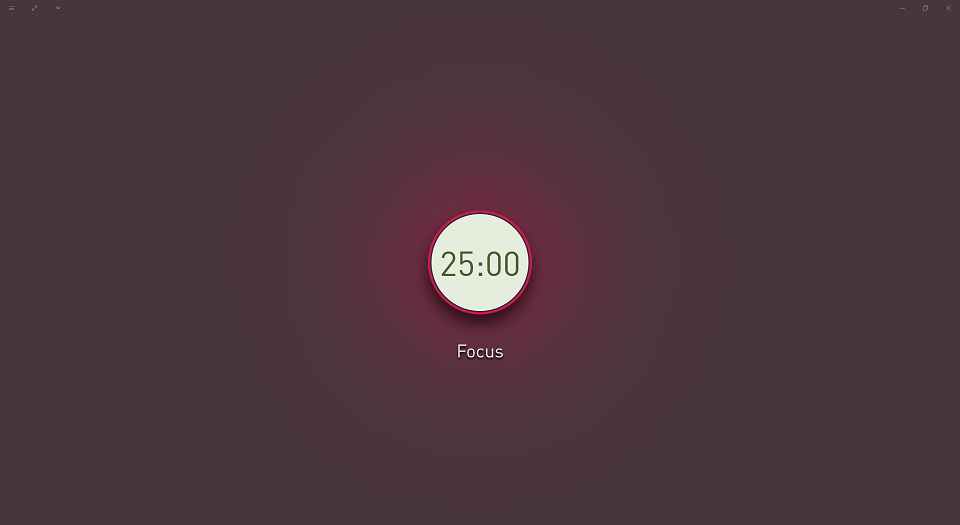
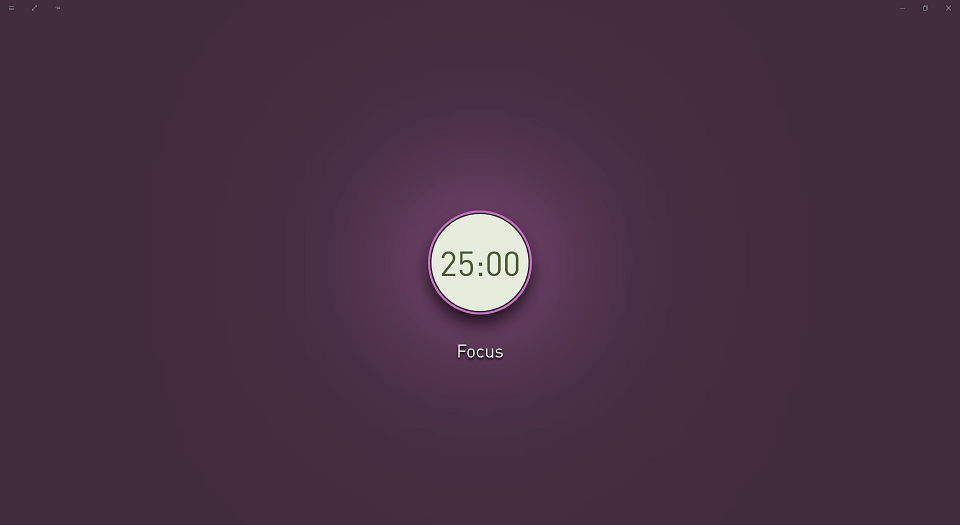
Change Audio Call Color

Changed region(s): [[0.4062, 0.3352, 0.5938, 0.6705]]

diff --git a/OnePomodoro/OnePomodoro/PomodoroViews/AudioCall.xaml b/OnePomodoro/OnePomodoro/PomodoroViews/AudioCall.xaml
@@ -17,7 +17,11 @@
                     d:DesignHeight="1200"
                     d:DesignWidth="1920">
     <UserControl.Resources>
-
+        <Color x:Key="RedBackground">#422D3E</Color>
+        <Color x:Key="RedForeground">#CC6AC4</Color>
+        
+        <Color x:Key="BlueBackground">#373644</Color>
+        <Color x:Key="BlueForeground">#9ea2ff</Color>
         <SolidColorBrush x:Name="Background"
                          Color="#35343b" />
         <converters:BoolToObjectConverter TrueValue="Top"
@@ -111,17 +115,17 @@
                                             Storyboard.TargetName="BrushBridge"
                                             Storyboard.TargetProperty="Color"
                                             Duration="0:0:1"
-                                            To="#FFD91153" />
+                                            To="{StaticResource RedForeground}" />
                             <ColorAnimation EnableDependentAnimation="True"
                                             Storyboard.TargetName="BackgroundFill"
                                             Storyboard.TargetProperty="(Shape.Fill).(SolidColorBrush.Color)"
                                             Duration="0:0:2"
-                                            To="#47363b" />
+                                            To="{StaticResource RedBackground}" />
                             <ColorAnimation EnableDependentAnimation="True"
                                             Storyboard.TargetName="LayoutRoot"
                                             Storyboard.TargetProperty="(Panel.Background).(SolidColorBrush.Color)"
                                             Duration="0:0:2"
-                                            To="#47363b" />
+                                            To="{StaticResource RedBackground}" />
                         </Storyboard>
                     </VisualTransition>
                     <VisualTransition To="InBreak">
@@ -166,21 +170,21 @@
                 <VisualState x:Name="InPomodoro">
                     <VisualState.Setters>
                         <Setter Target="BrushBridge.Color"
-                                Value="#FFD91153" />
+                                Value="{StaticResource RedForeground}" />
                         <Setter Target="BackgroundFill.Fill"
-                                Value="#47363b" />
+                                Value="{StaticResource RedBackground}" />
                         <Setter Target="LayoutRoot.Background"
-                                Value="#47363b" />
+                                Value="{StaticResource RedBackground}" />
                     </VisualState.Setters>
                 </VisualState>
                 <VisualState x:Name="InBreak">
                     <VisualState.Setters>
                         <Setter Target="BrushBridge.Color"
-                                Value="#9ea2ff" />
+                                Value="{StaticResource BlueForeground}" />
                         <Setter Target="BackgroundFill.Fill"
-                                Value="#373644" />
+                                Value="{StaticResource BlueBackground}" />
                         <Setter Target="LayoutRoot.Background"
-                                Value="#373644" />
+                                Value="{StaticResource BlueBackground}" />
                     </VisualState.Setters>
                 </VisualState>
             </VisualStateGroup>
@@ -198,12 +202,12 @@
             
         </VisualStateManager.VisualStateGroups>
         <helpers:SolidColorBrushBridge x:Name="BrushBridge"
-                                       Color="#FFD91153" />
+                                       Color="{StaticResource RedForeground}" />
         <Grid Grid.Row="1" 
               x:Name="LayoutRoot"
-              Background="#47363b">
+              Background="{StaticResource RedBackground}">
 
-            <Rectangle Fill="#47363b"
+            <Rectangle Fill="{StaticResource RedBackground}"
                        x:Name="BackgroundFill" />
             <Viewbox MaxHeight="1000"
                      MaxWidth="1000"
@@ -214,8 +218,6 @@
                           Width="208"
                           HorizontalAlignment="Center"
                           VerticalAlignment="Center">
-
-
 
 
                         <Grid>
@@ -268,8 +270,8 @@
                                      Fill="#e6eddd" />
                         </Grid>
                         <controls:TimeAndButtonSwitcher Foreground="#4c6135"
-                                                        PomodoroColor="#FFD91153"
-                                                        BreakColor="#9ea2ff" />
+                                                        PomodoroColor="{StaticResource RedForeground}"
+                                                        BreakColor="{StaticResource BlueForeground}" />
                         <Grid Margin="0,0,0,-350" x:Name="TitlePanel">
                             <controls1:DropShadowPanel HorizontalAlignment="Center"
                                                        VerticalAlignment="Center"
